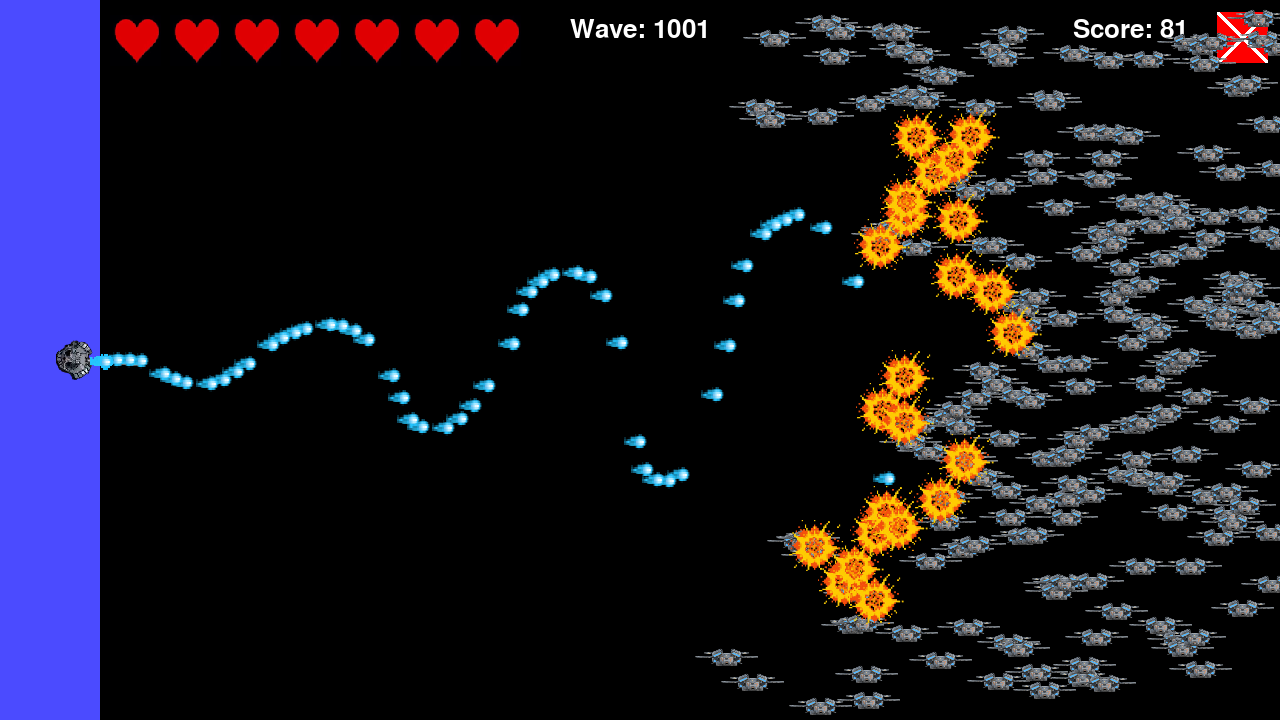
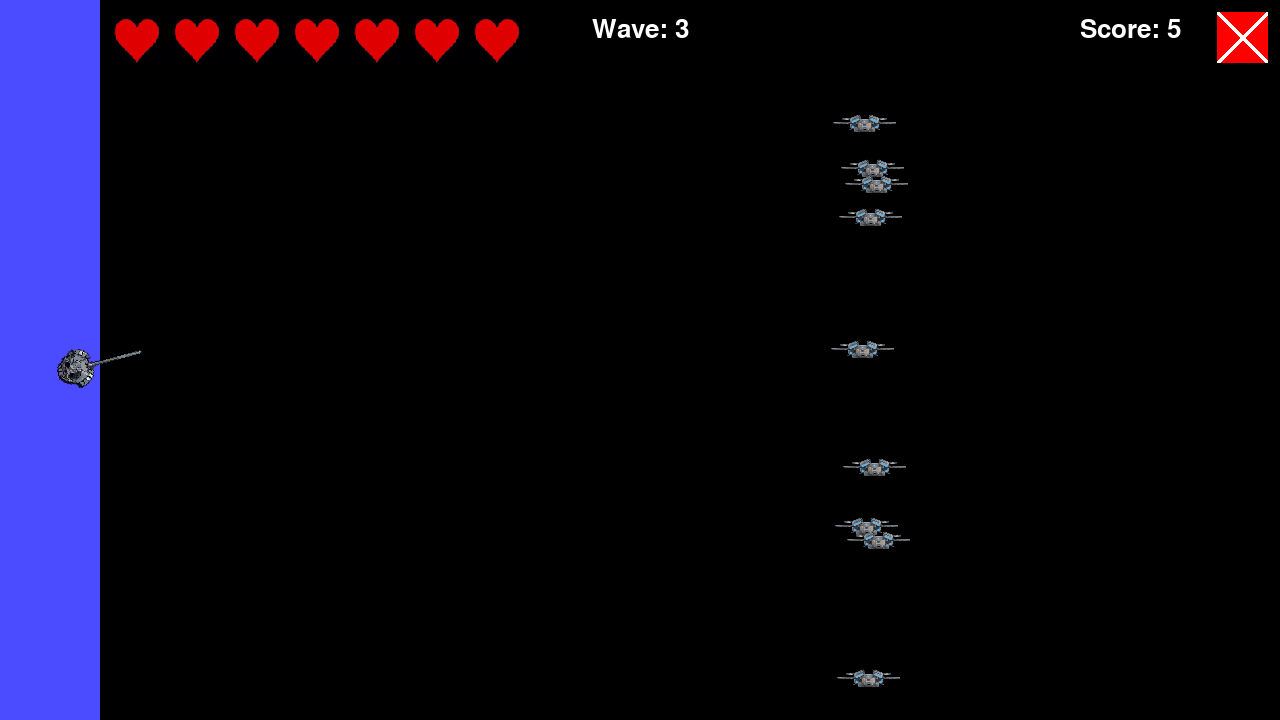
added auto-fire and upgrades

diff --git a/shooter.py b/shooter.py
@@ -15,12 +15,23 @@ pygame.display.set_caption("Shooter")
 explosion = False
 health = 7
 score = 0
-wave = 0
+wave = 1
 enemies_to_spawn = 0
 enemies_spawned = 0
 time_since_last_spawn = 0
 spawn_timer = 0
 running = True
+
+
+fire_rate_upgrade = 1  
+pierce_upgrade = 1  
+grenade_fire_rate_upgrade = 1  
+bullet_damage_upgrade = 1  
+grenade_unlocked = False  
+
+
+auto_fire = False
+last_shot_time = 0
 
 class Player(pygame.sprite.Sprite):
     def __init__(self):
@@ -41,14 +52,18 @@ class Enemy(pygame.sprite.Sprite):
         super().__init__()
         self.image = pygame.image.load("graphics/enemy.png").convert_alpha()
         self.image = pygame.transform.scale(self.image, (int(screen_width * 0.05), int(screen_width * 0.015)))
-        self.rect = self.image.get_rect(center=pos)
+        self.rect = self.image.get_rect(center = pos)
 
     def update(self, bullets_group, grenades_group):
         global score, health, running
         if not paused:
             self.rect.x -= int(screen_width * 0.002)
-        bullet_hits = pygame.sprite.spritecollide(self, bullets_group, True)
+        bullet_hits = pygame.sprite.spritecollide(self, bullets_group, False)
         if bullet_hits:
+            for bullet in bullet_hits:
+                bullet.pierce -= 1
+                if bullet.pierce <= 0:
+                    bullet.kill()
             self.kill()
             score += 1
             explosion = ExplosionEnemy(self.rect.center)
@@ -80,10 +95,10 @@ class Boss(pygame.sprite.Sprite):
             self.rect.x -= int(screen_width * 0.001)
         bullet_hits = pygame.sprite.spritecollide(self, bullets_group, True)
         if bullet_hits:
-            self.health -= 1
+            self.health -= bullet_damage_upgrade
         grenade_hits = pygame.sprite.spritecollide(self, grenades_group, True)
         if grenade_hits:
-            self.health -= 5  
+            self.health -= 7
             explosion = ExplosionGrenade(self.rect.center)
             explosions_group.add(explosion)
         if self.health <= 0:
@@ -109,6 +124,7 @@ class Bullet(pygame.sprite.Sprite):
         self.rect = self.image.get_rect(center=pos)
         self.pos = pygame.Vector2(pos)
         self.vel = pygame.Vector2(int(screen_width * 0.01), 0).rotate(angle)
+        self.pierce = pierce_upgrade
 
     def update(self):
         if not paused:
@@ -158,7 +174,6 @@ class Grenade(pygame.sprite.Sprite):
                     score += boss.health
                     start_new_wave()
 
-
 class ExplosionEnemy(pygame.sprite.Sprite):
     def __init__(self, pos):
         super().__init__()
@@ -192,8 +207,6 @@ class ExplosionGrenade(pygame.sprite.Sprite):
                 enemy.kill()
                 explosion = ExplosionEnemy(enemy.rect.center)
                 explosions_group.add(explosion)
-
-
 
 close_button = pygame.Surface((int(screen_width * 0.04), int(screen_width * 0.04)))
 close_button.fill((255, 0, 0))
@@ -238,6 +251,43 @@ def start_new_wave():
 def take_screenshot():
     pygame.image.save(screen, "screenshot.png")
 
+def show_upgrade_menu():
+    global fire_rate_upgrade, pierce_upgrade, grenade_fire_rate_upgrade, bullet_damage_upgrade, grenade_unlocked
+    upgrade_menu = True
+    while upgrade_menu:
+        for event in pygame.event.get():
+            if event.type == pygame.QUIT:
+                pygame.quit()
+                exit()
+            if event.type == pygame.KEYDOWN:
+                if event.key == pygame.K_1:
+                    fire_rate_upgrade += 1
+                    upgrade_menu = False
+                elif event.key == pygame.K_2:
+                    pierce_upgrade += 1
+                    upgrade_menu = False
+                elif event.key == pygame.K_3:
+                    grenade_fire_rate_upgrade += 1
+                    if not grenade_unlocked:
+                        grenade_unlocked = True
+                    upgrade_menu = False
+                elif event.key == pygame.K_4:
+                    bullet_damage_upgrade += 1
+                    upgrade_menu = False
+
+        screen.fill((0, 0, 0))
+        upgrade_text = font_.render("Choose an upgrade:", True, (255, 255, 255))
+        screen.blit(upgrade_text, (screen_width // 2 - 150, screen_height // 2 - 100))
+        upgrade_text1 = font.render("1. Fire Rate", True, (255, 255, 255))
+        screen.blit(upgrade_text1, (screen_width // 2 - 150, screen_height // 2 - 50))
+        upgrade_text2 = font.render("2. Pierce", True, (255, 255, 255))
+        screen.blit(upgrade_text2, (screen_width // 2 - 150, screen_height // 2))
+        upgrade_text3 = font.render("3. Grenade Fire Rate", True, (255, 255, 255))
+        screen.blit(upgrade_text3, (screen_width // 2 - 150, screen_height // 2 + 50))
+        upgrade_text4 = font.render("4. Bullet Damage", True, (255, 255, 255))
+        screen.blit(upgrade_text4, (screen_width // 2 - 150, screen_height // 2 + 100))
+        pygame.display.update()
+
 start_new_wave()
 
 while True:
@@ -253,13 +303,16 @@ while True:
                     if close_button_rect.collidepoint(mouse_pos):
                         pygame.quit()
                         exit()
-                    rel_x, rel_y = mouse_pos[0] - player.rect.centerx, mouse_pos[1] - player.rect.centery
-                    angle = math.degrees(math.atan2(rel_y, rel_x))
-                    bullet = Bullet(player.rect.center, angle)
-                    bullets_group.add(bullet)
+                    current_time = pygame.time.get_ticks()
+                    if current_time - last_shot_time >= 300 / fire_rate_upgrade:
+                        rel_x, rel_y = mouse_pos[0] - player.rect.centerx, mouse_pos[1] - player.rect.centery
+                        angle = math.degrees(math.atan2(rel_y, rel_x))
+                        bullet = Bullet(player.rect.center, angle)
+                        bullets_group.add(bullet)
+                        last_shot_time = current_time
             
             if event.type == pygame.KEYDOWN:
-                if event.key == pygame.K_SPACE:
+                if event.key == pygame.K_SPACE and grenade_unlocked:
                     rel_x, rel_y = mouse_pos[0] - player.rect.centerx, mouse_pos[1] - player.rect.centery
                     angle = math.degrees(math.atan2(-rel_y, -rel_x))
                     angle += 180
@@ -271,6 +324,12 @@ while True:
 
                 if event.key == pygame.K_s:
                     take_screenshot()
+
+                if event.key == pygame.K_a:
+                    if auto_fire: 
+                        auto_fire = False
+                    else:
+                        auto_fire = True
 
         else:
             if event.type == pygame.MOUSEBUTTONDOWN:
@@ -353,6 +412,16 @@ while True:
                 if spawn_timer >= spawn_interval:
                     start_new_wave()
                     spawn_timer = 0
+                    show_upgrade_menu()
+
+ 
+        if auto_fire and not paused:
+            current_time = pygame.time.get_ticks()
+            if current_time - last_shot_time >= 500 / fire_rate_upgrade:
+                rel_x, rel_y = mouse_pos[0] - player.rect.centerx, mouse_pos[1] - player.rect.centery
+                angle = math.degrees(math.atan2(rel_y, rel_x))
+                bullet = Bullet(player.rect.center, angle)
+                bullets_group.add(bullet)
+                last_shot_time = current_time
 
     clock.tick(60)
-
